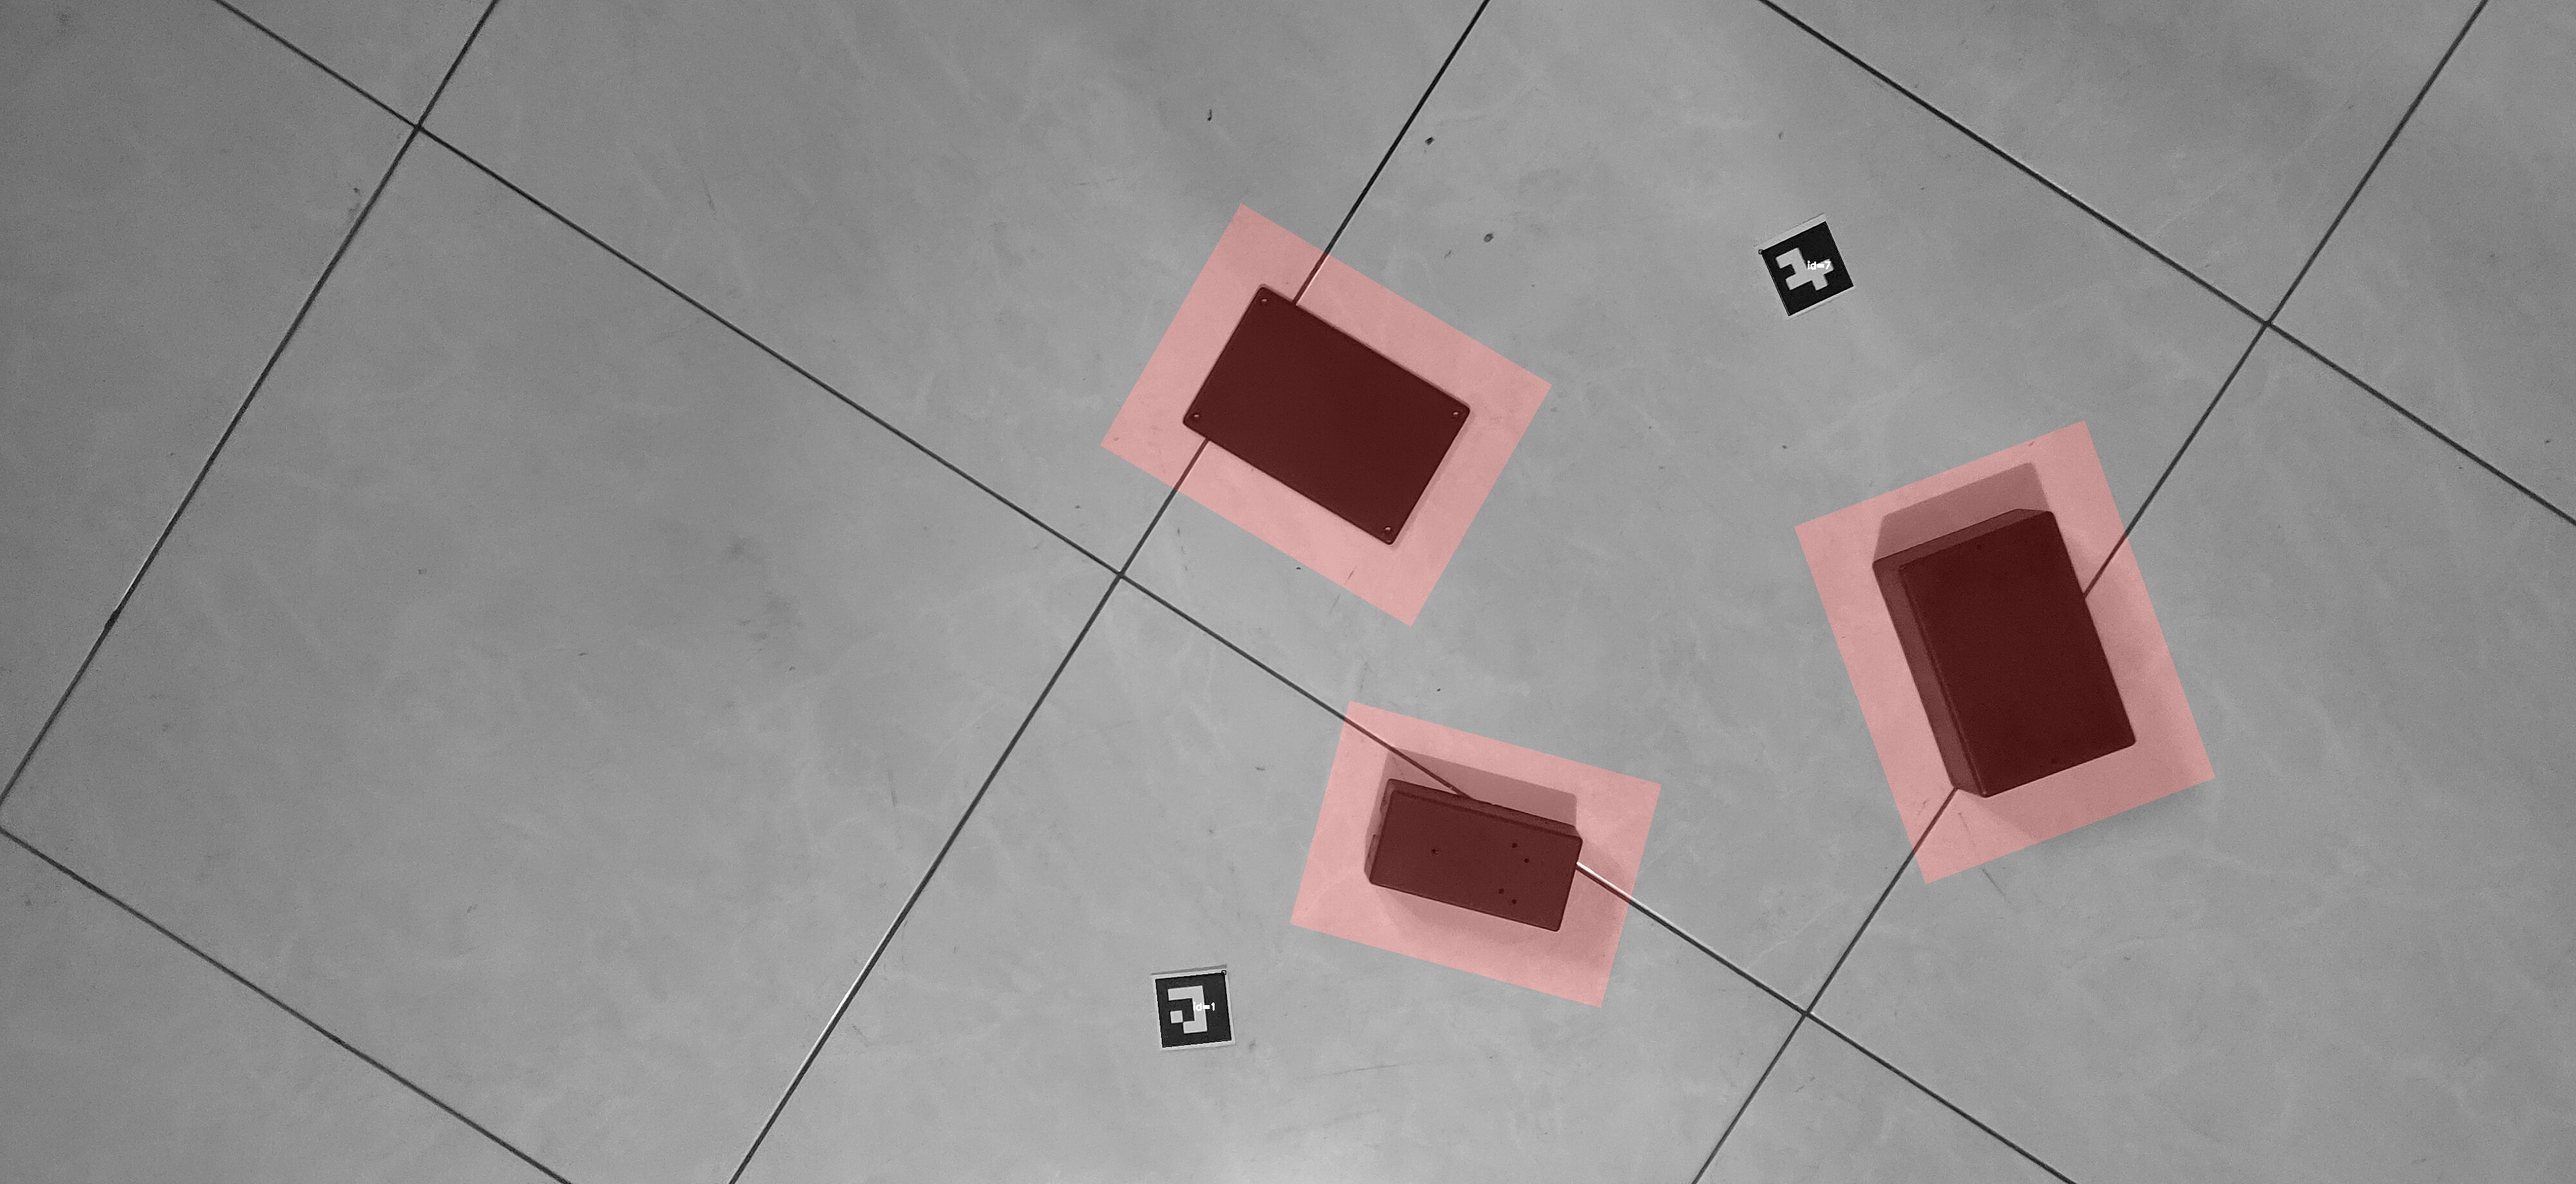
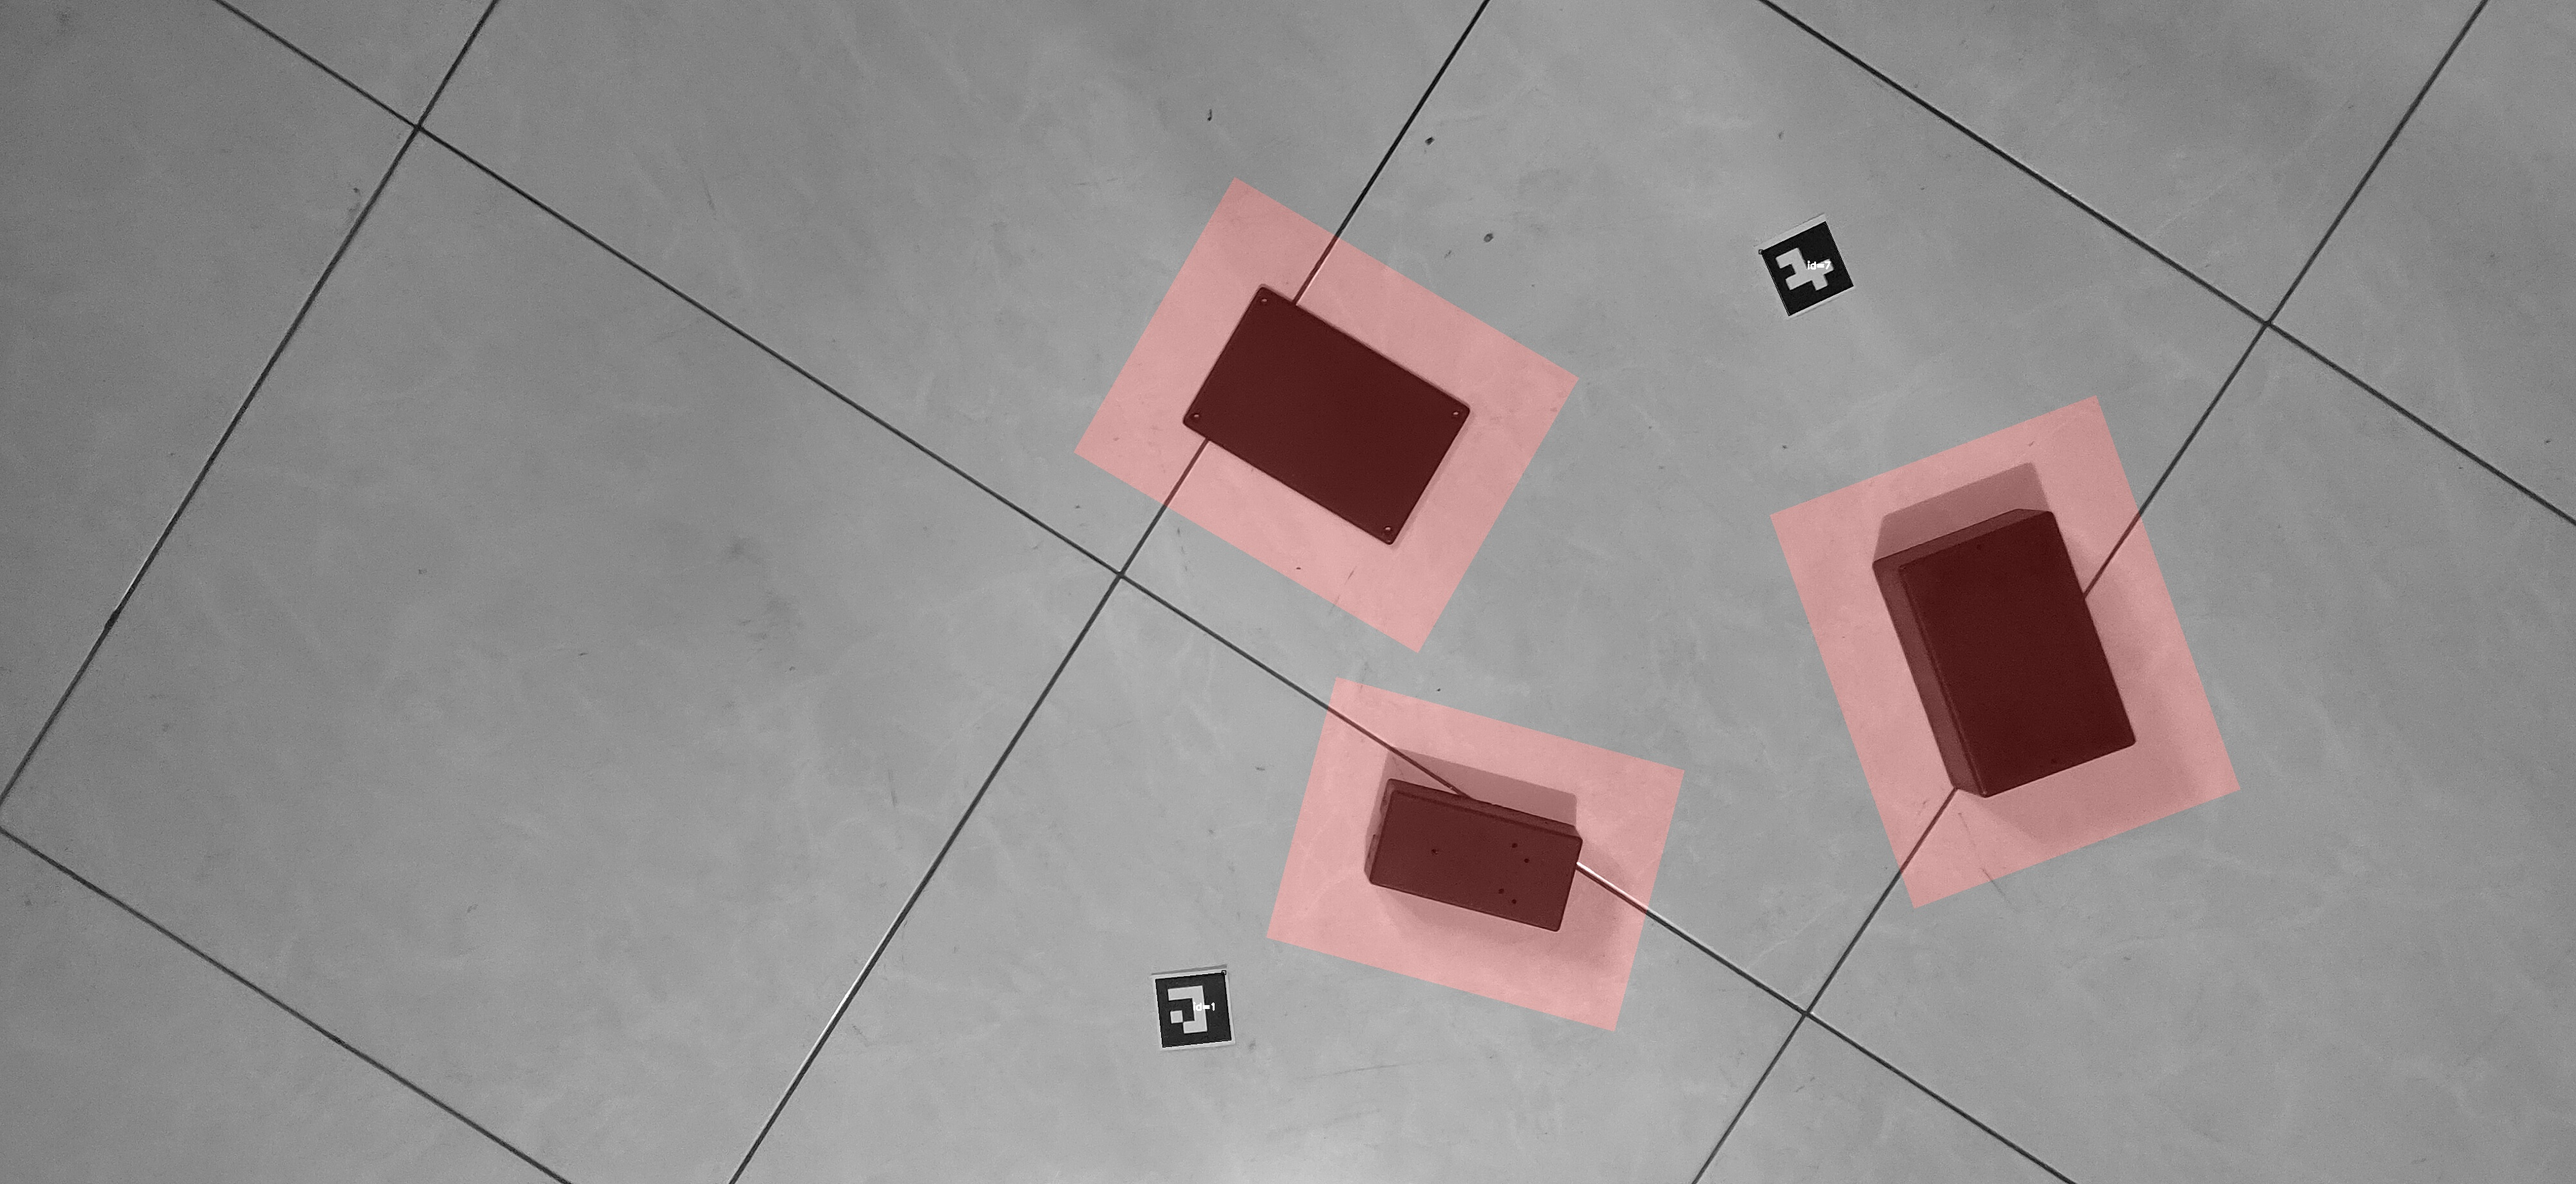
i do 2 times prunning and get better path

diff --git a/Utils.py b/Utils.py
@@ -12,7 +12,6 @@ from GetPosition import Position
 from GetErrorPosition import Error
 from GetPreprocessing import Preprocessing
 from GetVisualize import Visualize
-from GetContuor import Contours
 from Method.PathPolylineOptimization import prunning
 from Method.Guideline import guidline, jarakGaris
 
@@ -20,6 +19,6 @@ from Method.Guideline import guidline, jarakGaris
 __all__ = [
     'sys', 'cv2', 'aruco', 'np', 'pd', 'pygame',
     'jps', 'astar',
-    'Position', 'Error', 'Preprocessing', 'Visualize', 'Contours',
+    'Position', 'Error', 'Preprocessing', 'Visualize',
     'prunning', 'guidline', 'jarakGaris'
 ]

diff --git a/Main.py b/Main.py
@@ -18,6 +18,8 @@ print(f"Close List adalah : {close_list}")
 
 # Optimasi
 path = prunning(path, map)
+path = prunning(path, map)
+path = prunning(path, map)
 print("Path Hasil Prunning : ", path)
 
 # Mengubah Koordinat Jalur ke Ukuran Asli
@@ -33,7 +35,7 @@ for i in range(1, len(path)):
     cv2.line(image, (x1, y1), (x2, y2), (255,200,200), 5) 
 
 for y, x in path:
-    cv2.circle(image, (x, y), 16, (255,0,255), -1) 
+    cv2.circle(image, (x, y), 8, (255,0,255), -1) 
 
 # cpos = (1800, 1300)
 # awal = np.flip(path[0])

diff --git a/GetContuor.py b/GetContuor.py
@@ -19,8 +19,8 @@ def Contours(image):
         if cv2.contourArea(contour) > 10000:
             rect = cv2.minAreaRect(contour)
             (cx, cy), (w, h), angle = rect
-            w_enlarged = w + 260
-            h_enlarged = h + 260
+            w_enlarged = w + 320
+            h_enlarged = h + 320
             enlarged_rect = ((cx, cy), (w_enlarged, h_enlarged), angle)
             box = cv2.boxPoints(enlarged_rect)
             box = np.array(box, dtype=np.int32)
